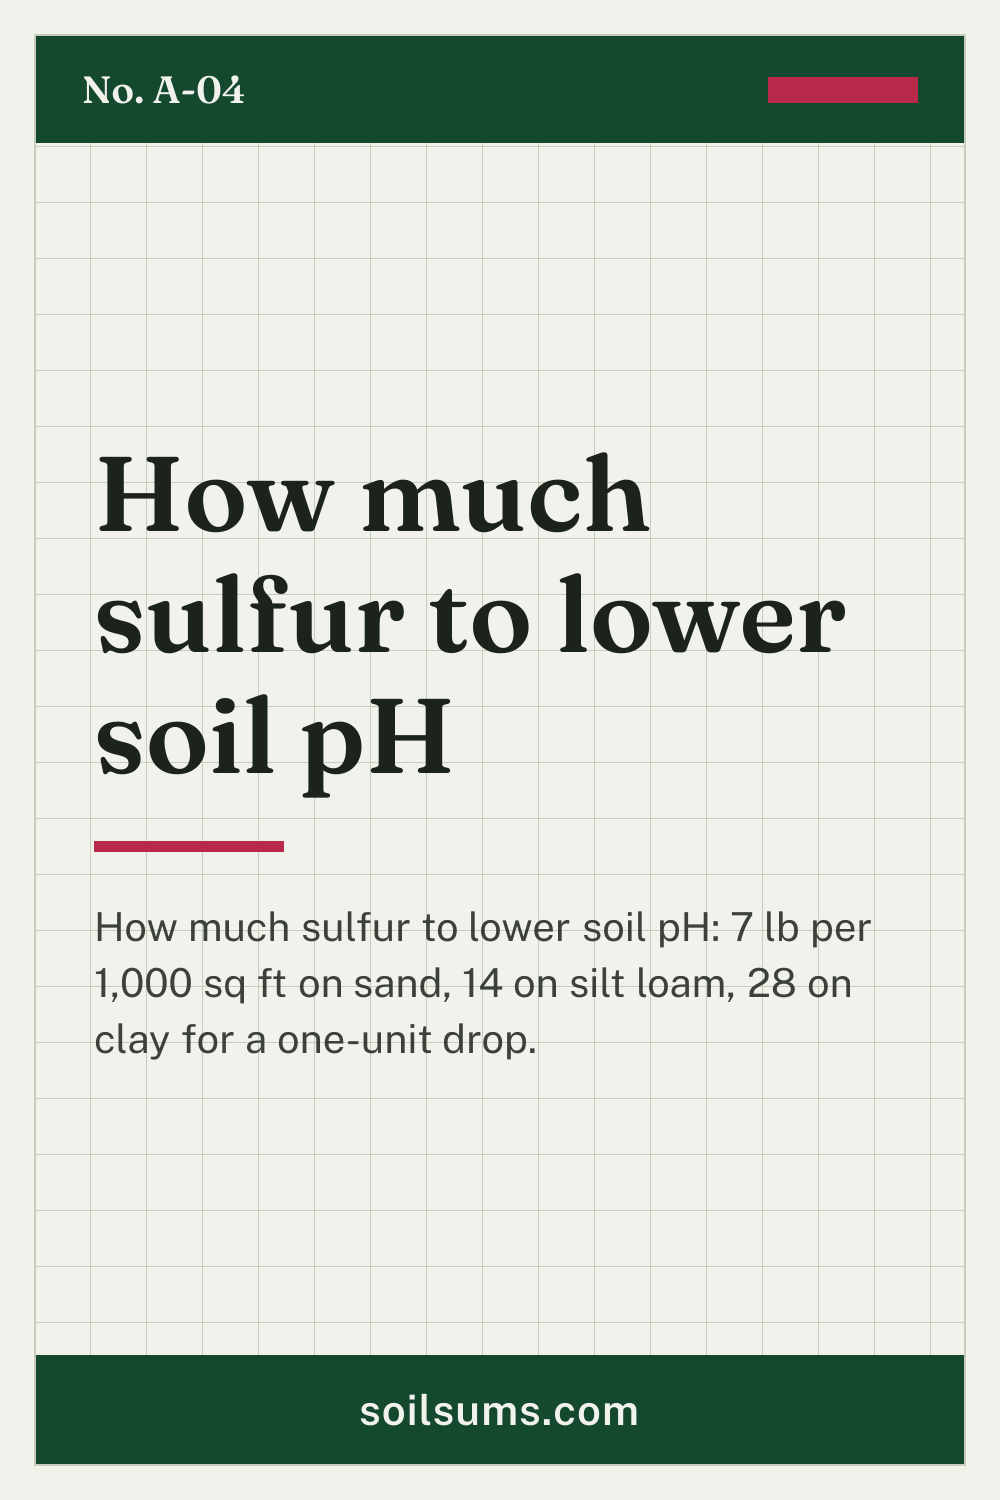
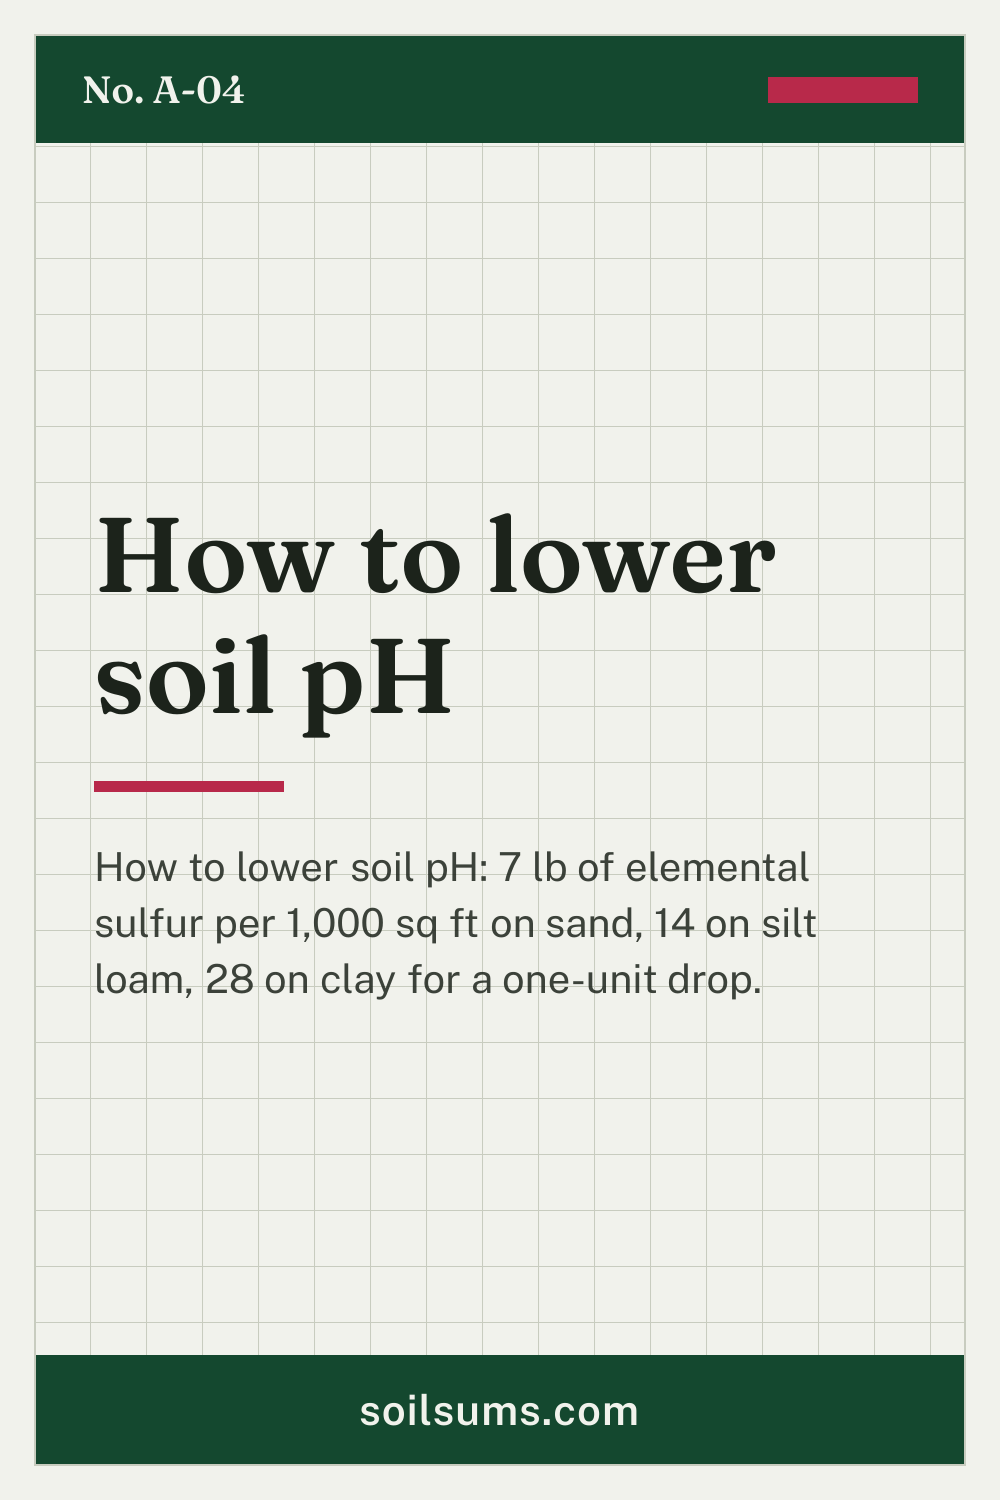
Retarget two live pages, and add HowTo schema support
Neither page's arguments or figures change. Both were aimed at phrasings
narrower than what people actually search, and Google already knows them,
so this is retargeting rather than building.

what-to-fill-raised-garden-beds-with now targets "how to fill a raised
garden bed" (2,400) instead of "what to fill raised garden beds with"
(<100), which moves into questionKeywords rather than disappearing. Slug
unchanged. Two sections added: a six-step ordered procedure, and a budget
section on hugelkultur and core gardening that is honest about settling,
nitrogen tie-up and a weaker first year — a cheap method described without
its costs is not worth acting on.

how-much-sulfur-to-lower-soil-ph now targets "how to lower ph in soil"
(1,900) instead of "how much sulfur to lower soil pH" (<100), which stays
as an H2 and moves into questionKeywords. One short section added ahead of
the rates, answering the broad question and handing the reader down into
the detail: elemental sulfur for almost every garden, what the alternatives
cost you, and months rather than weeks. Every Ohio State rate, the
per-application ceiling and the calcareous-soil caveat are untouched.

The mirror pair is now complete — one sentence and one link in each
direction between the raise and lower pages.

HowTo schema did not exist on the site. lib/seo/schema.ts gains a helper,
the frontmatter type gains a howTo field, and the blog template emits it
[…]

Changed region(s): [[0.093, 0.3067, 0.868, 0.7053]]

diff --git a/lib/seo/schema.ts b/lib/seo/schema.ts
@@ -96,3 +96,37 @@ export function faqSchema(faqs: readonly { question: string; answer: string }[])
     })),
   };
 }
+
+/**
+ * HowTo schema for a page carrying a genuine ordered sequence.
+ *
+ * Only for a real procedure with steps that must happen in order. A list of
+ * tips is not a HowTo, and marking one up as though it were is the kind of
+ * structured data that gets a site's rich results withdrawn rather than
+ * granted. Every step here has to appear, in order, in the visible body.
+ */
+export function howToSchema({
+  name,
+  description,
+  path,
+  steps,
+}: {
+  name: string;
+  description: string;
+  path: string;
+  steps: readonly { name: string; text: string }[];
+}) {
+  return {
+    '@context': 'https://schema.org',
+    '@type': 'HowTo',
+    name,
+    description,
+    step: steps.map((step, index) => ({
+      '@type': 'HowToStep',
+      position: index + 1,
+      name: step.name,
+      text: step.text,
+      url: `${absoluteUrl(path)}#how-to-fill-a-raised-garden-bed`,
+    })),
+  };
+}

diff --git a/app/blog/[slug]/page.tsx b/app/blog/[slug]/page.tsx
@@ -12,7 +12,7 @@ import { articleContent } from '@/content/blog/registry';
 import { getContent, isPublishable, listPublished } from '@/lib/content/mdx';
 import { publishedArticles } from '@/lib/content/blog';
 import { pageMetadata } from '@/lib/seo/metadata';
-import { articleSchema } from '@/lib/seo/schema';
+import { articleSchema, howToSchema } from '@/lib/seo/schema';
 import { getTool } from '@/data/tools';
 import { formatDate } from '@/lib/legal';
 
@@ -82,6 +82,17 @@ export default async function ArticlePage({ params }: { params: Promise<{ slug: 
           updated,
         })}
       />
+
+      {entry.frontmatter.howTo ? (
+        <JsonLd
+          data={howToSchema({
+            name: entry.frontmatter.howTo.name,
+            description: entry.frontmatter.howTo.description,
+            path: `/blog/${slug}/`,
+            steps: entry.frontmatter.howTo.steps,
+          })}
+        />
+      ) : null}
 
       <Container className="pt-3 pb-8">
         <Breadcrumbs

diff --git a/lib/content/mdx.ts b/lib/content/mdx.ts
@@ -6,6 +6,9 @@ export type ContentKind = 'tools' | 'crops' | 'blog';
 
 export type Faq = { question: string; answer: string };
 
+/** One step of an ordered procedure, for HowTo schema. */
+export type HowToStep = { name: string; text: string };
+
 /**
  * Normalises a frontmatter date to a plain YYYY-MM-DD string.
  *
@@ -42,6 +45,11 @@ export type Frontmatter = {
    * prose, no markdown, because structured data cannot carry markup.
    */
   faqs?: Faq[];
+  /**
+   * An ordered procedure the page walks through. Emitted as HowTo schema, so
+   * every step must also appear in the body in the same order.
+   */
+  howTo?: { name: string; description: string; steps: HowToStep[] };
   [key: string]: unknown;
 };
 

diff --git a/docs/pinterest-pins.md b/docs/pinterest-pins.md
@@ -23,16 +23,16 @@ Vegetable Garden Planning. A "Lawn Care" board would be a better home.
 | `article-how-much-is-a-yard-of-dirt-b.png` | How many cubic feet are in a yard? | How many cubic feet are in a yard? Answered in the SoilSums guide to "how much is a yard of dirt". A yard of dirt is 27 cubic feet and covers about 108 square feet at three inches deep. What a cubic yard looks like, how far it goes, and bags versus bulk. With the working shown. | https://soilsums.com/blog/how-much-is-a-yard-of-dirt/ | Vegetable Garden Planning |
 | `article-how-much-potting-soil-a-container-needs-a.png` | How many quarts of soil in a 5 gallon bucket? | The short answer to "how many quarts of soil in a 5 gallon bucket", with the arithmetic shown. A 5 gallon bucket takes about 17 dry quarts of potting soil, not 20. Why bagged mix is sold in dry quarts, and the volume of every common pot size. Read it on SoilSums — free and no sign-up. | https://soilsums.com/blog/how-much-potting-soil-a-container-needs/ | Container Vegetable Gardening |
 | `article-how-much-potting-soil-a-container-needs-b.png` | Why do bags say quarts instead of cubic feet? | Why do bags say quarts instead of cubic feet? Answered in the SoilSums guide to "how many quarts of soil in a 5 gallon bucket". A 5 gallon bucket takes about 17 dry quarts of potting soil, not 20. Why bagged mix is sold in dry quarts, and the volume of every common pot size. With the working shown. | https://soilsums.com/blog/how-much-potting-soil-a-container-needs/ | Container Vegetable Gardening |
-| `article-how-much-sulfur-to-lower-soil-ph-a.png` | How much sulfur to lower soil pH | The short answer to "how much sulfur to lower soil pH", with the arithmetic shown. How much sulfur to lower soil pH: 7 lb per 1,000 sq ft on sand, 14 on silt loam, 28 on clay for a one-unit drop. Ohio State rates, with the assumptions. Read it on SoilSums — free and no sign-up. | https://soilsums.com/blog/how-much-sulfur-to-lower-soil-ph/ | Soil pH and Fertilizer |
-| `article-how-much-sulfur-to-lower-soil-ph-b.png` | Do coffee grounds lower soil pH? | Do coffee grounds lower soil pH? Answered in the SoilSums guide to "how much sulfur to lower soil pH". How much sulfur to lower soil pH: 7 lb per 1,000 sq ft on sand, 14 on silt loam, 28 on clay for a one-unit drop. Ohio State rates, with the assumptions. With the working shown. | https://soilsums.com/blog/how-much-sulfur-to-lower-soil-ph/ | Soil pH and Fertilizer |
+| `article-how-much-sulfur-to-lower-soil-ph-a.png` | How to lower soil pH | The short answer to "how to lower ph in soil", with the arithmetic shown. How to lower soil pH: 7 lb of elemental sulfur per 1,000 sq ft on sand, 14 on silt loam, 28 on clay for a one-unit drop. Ohio State rates and limits. Read it on SoilSums — free, no sign-up, and every figure sourced. | https://soilsums.com/blog/how-much-sulfur-to-lower-soil-ph/ | Soil pH and Fertilizer |
+| `article-how-much-sulfur-to-lower-soil-ph-b.png` | Do coffee grounds lower soil pH? | Do coffee grounds lower soil pH? Answered in the SoilSums guide to "how to lower ph in soil". How to lower soil pH: 7 lb of elemental sulfur per 1,000 sq ft on sand, 14 on silt loam, 28 on clay for a one-unit drop. Ohio State rates and limits. Every figure comes from a university extension source. | https://soilsums.com/blog/how-much-sulfur-to-lower-soil-ph/ | Soil pH and Fertilizer |
 | `article-how-to-add-nitrogen-to-soil-a.png` | How to add nitrogen to soil | The short answer to "how to add nitrogen to soil", with the arithmetic shown. Blood meal at 12% nitrogen feeds a crop within a month; feather meal at 11-15% can take a year. How to add nitrogen to soil, and which source suits when. Read it on SoilSums — free, no sign-up, and every figure sourced. | https://soilsums.com/blog/how-to-add-nitrogen-to-soil/ | Vegetable Garden Planning |
 | `article-how-to-add-nitrogen-to-soil-b.png` | What is the fastest way to add nitrogen to soil? | What is the fastest way to add nitrogen to soil? Answered in the SoilSums guide to "how to add nitrogen to soil". Blood meal at 12% nitrogen feeds a crop within a month; feather meal at 11-15% can take a year. How to add nitrogen to soil, and which source suits when. With the working shown. | https://soilsums.com/blog/how-to-add-nitrogen-to-soil/ | Vegetable Garden Planning |
 | `article-how-to-raise-soil-ph-a.png` | How to raise soil pH | The short answer to "how to raise ph in soil", with the arithmetic shown. Raise soil pH with ground limestone and expect three to six months. Sandy soil needs about 25 lb per 1,000 sq ft per pH unit, clay closer to 95. Read it on SoilSums — free, no sign-up, and every figure sourced. | https://soilsums.com/blog/how-to-raise-soil-ph/ | Vegetable Garden Planning |
 | `article-how-to-raise-soil-ph-b.png` | What raises soil pH the fastest? | What raises soil pH the fastest? Answered in the SoilSums guide to "how to raise ph in soil". Raise soil pH with ground limestone and expect three to six months. Sandy soil needs about 25 lb per 1,000 sq ft per pH unit, clay closer to 95. Every figure comes from a university extension source. | https://soilsums.com/blog/how-to-raise-soil-ph/ | Vegetable Garden Planning |
 | `article-what-the-three-numbers-on-fertilizer-mean-a.png` | What do the three numbers on fertilizer mean? | The short answer to "what do the three numbers on fertilizer mean", with the arithmetic shown. The three numbers on fertilizer are N-P-K percentages by weight, and the middle one is phosphate, not phosphorus. How to read a bag properly. Read it on SoilSums — free and no sign-up. | https://soilsums.com/blog/what-the-three-numbers-on-fertilizer-mean/ | Soil pH and Fertilizer |
 | `article-what-the-three-numbers-on-fertilizer-mean-b.png` | Is a higher N-P-K number better? | Is a higher N-P-K number better? Answered in the SoilSums guide to "what do the three numbers on fertilizer mean". The three numbers on fertilizer are N-P-K percentages by weight, and the middle one is phosphate, not phosphorus. How to read a bag properly. With the working shown. | https://soilsums.com/blog/what-the-three-numbers-on-fertilizer-mean/ | Soil pH and Fertilizer |
-| `article-what-to-fill-raised-garden-beds-with-a.png` | What to fill raised garden beds with | The short answer to "what to fill raised garden beds with", with the arithmetic shown. What to fill raised garden beds with — roughly 60% topsoil, 30% compost and 10% coarse material, why pure compost fails, and how to work out the volume. Read it on SoilSums — free and no sign-up. | https://soilsums.com/blog/what-to-fill-raised-garden-beds-with/ | Raised Bed Gardening |
-| `article-what-to-fill-raised-garden-beds-with-b.png` | Can I use garden soil in a raised bed? | Can I use garden soil in a raised bed? Answered in the SoilSums guide to "what to fill raised garden beds with". What to fill raised garden beds with — roughly 60% topsoil, 30% compost and 10% coarse material, why pure compost fails, and how to work out the volume. With the working shown. | https://soilsums.com/blog/what-to-fill-raised-garden-beds-with/ | Raised Bed Gardening |
+| `article-what-to-fill-raised-garden-beds-with-a.png` | How to fill a raised garden bed | The short answer to "how to fill a raised garden bed", with the arithmetic shown. How to fill a raised garden bed: six steps, roughly 60% topsoil, 30% compost and 10% coarse material, why pure compost fails, and what goes in the bottom. Read it on SoilSums — free and no sign-up. | https://soilsums.com/blog/what-to-fill-raised-garden-beds-with/ | Raised Bed Gardening |
+| `article-what-to-fill-raised-garden-beds-with-b.png` | Can I use garden soil in a raised bed? | Can I use garden soil in a raised bed? Answered in the SoilSums guide to "how to fill a raised garden bed". How to fill a raised garden bed: six steps, roughly 60% topsoil, 30% compost and 10% coarse material, why pure compost fails, and what goes in the bottom. With the working shown. | https://soilsums.com/blog/what-to-fill-raised-garden-beds-with/ | Raised Bed Gardening |
 | `article-why-is-my-compost-not-breaking-down-a.png` | Why is my compost not breaking down? | The short answer to "why is my compost not breaking down", with the arithmetic shown. Why your compost is not breaking down: six causes, the symptom that identifies each, and the fix. With real carbon-to-nitrogen figures. Read it on SoilSums — free, no sign-up, and every figure sourced. | https://soilsums.com/blog/why-is-my-compost-not-breaking-down/ | Composting Tips |
 | `article-why-is-my-compost-not-breaking-down-b.png` | How long should compost take? | How long should compost take? Answered in the SoilSums guide to "why is my compost not breaking down". Why your compost is not breaking down: six causes, the symptom that identifies each, and the fix. With real carbon-to-nitrogen figures. Every figure comes from a university extension source. | https://soilsums.com/blog/why-is-my-compost-not-breaking-down/ | Composting Tips |
 | `tool-compost-ratio-calculator-a.png` | What is the ideal C:N ratio for compost? | The compost ratio calculator works this out from your own measurements. Check the carbon to nitrogen balance of a compost pile from what you are putting in, and see what to add to fix it. Read it on SoilSums — free, no sign-up, and every figure sourced. | https://soilsums.com/tools/compost-ratio-calculator/ | Composting Tips |
